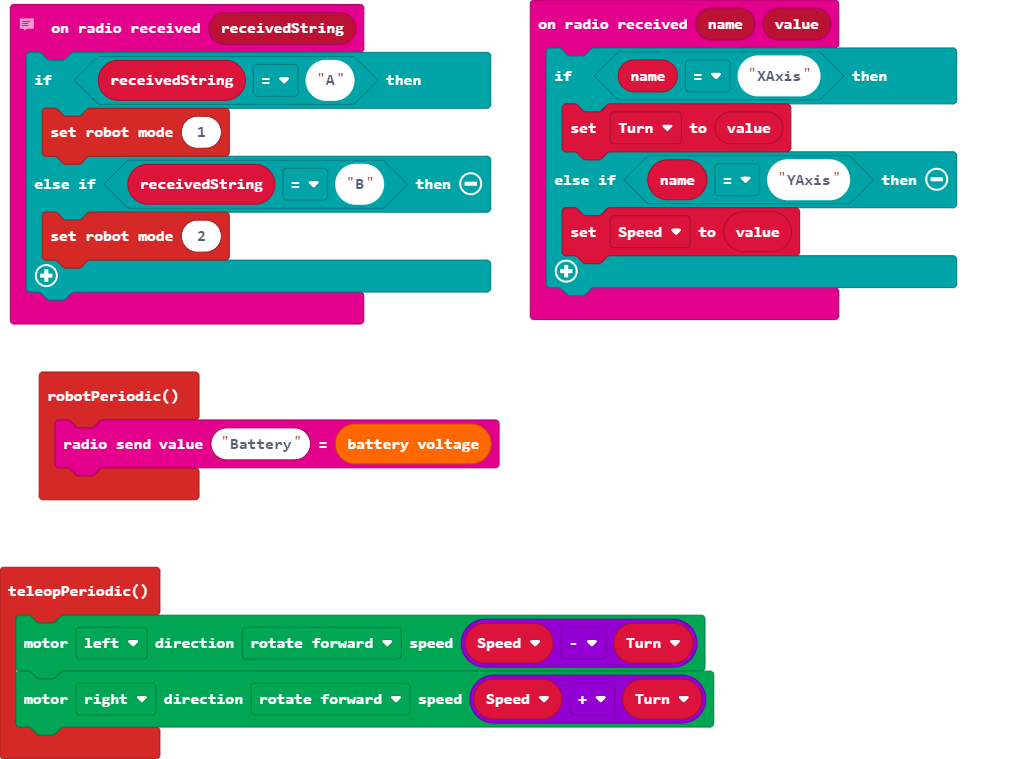
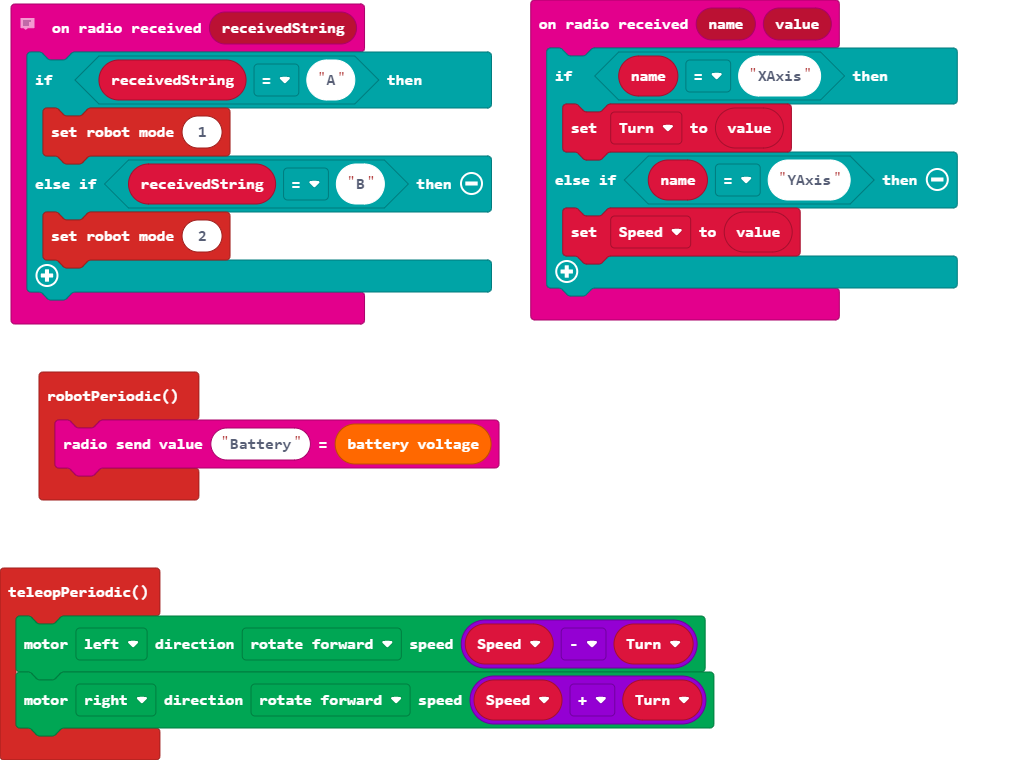
added Normalization of the range

diff --git a/main.ts b/main.ts
@@ -3,16 +3,16 @@ enum RadioMessage {
     HI = 38118,
     message1 = 49434
 }
-let Speed = 0
-let Turn = 0
+let speed = 0
+let turn = 0
 Oscats.robotPeriodic(function () {
     radio.sendValue("Battery", Rover.BatteryLevel())
 })
 Oscats.teleopPeriodic(function () {
-    DFRobotMaqueenPlus.mototRun(Motors.M1, Dir.CW, Speed - Turn)
-    DFRobotMaqueenPlus.mototRun(Motors.M2, Dir.CW, Speed + Turn)
+    DFRobotMaqueenPlus.mototRun(Motors.M1, Dir.CW, speed - turn)
+    DFRobotMaqueenPlus.mototRun(Motors.M2, Dir.CW, speed + turn)
 })
-// This Logic should handle the radio for the remote. It i tested using this remote.
+// This Logic should handle the radio for the remote. I tested using this remote.
 // 
 // https://www.amazon.com/gp/product/B08HD557QJ/ref=ppx_yo_dt_b_asin_title_o09_s00?ie=UTF8&psc=1
 radio.onReceivedString(function (receivedString) {
@@ -24,8 +24,18 @@ radio.onReceivedString(function (receivedString) {
 })
 radio.onReceivedValue(function (name, value) {
     if (name == "XAxis") {
-        Turn = value
+        turn = value
     } else if (name == "YAxis") {
-        Speed = value
+        speed = value
     }
 })
+let forward = false;
+if (speed>0){
+    speed = (((0+(Math.abs(speed)))/1)*255)+0;
+    forward = true;
+DFRobotMaqueenPlus.mototRun(Motors.M1, Dir.CW, speed)
+} else if (speed<0){
+    speed = (((0+(Math.abs(speed)))/1)*255)+0;
+    forward = false;
+DFRobotMaqueenPlus.mototRun(Motors.M1, Dir.CW, speed)
+}

diff --git a/custom.ts b/custom.ts
@@ -1,4 +1,5 @@
 /** * Custom blocks */ //% weight=100 color=#d42926 icon="\uf1b0"
+//% groups="['General', 'Uesful']"
 namespace Oscats {
     let mode = 0;
     let previousMode = 1;
@@ -48,6 +49,7 @@ namespace Oscats {
     }
            
         //% block="getRobotMode()"
+        //% group = "uselful"
         export function getRobotMode() {
             let currentRobotMode = "disabled";
             switch(mode){
